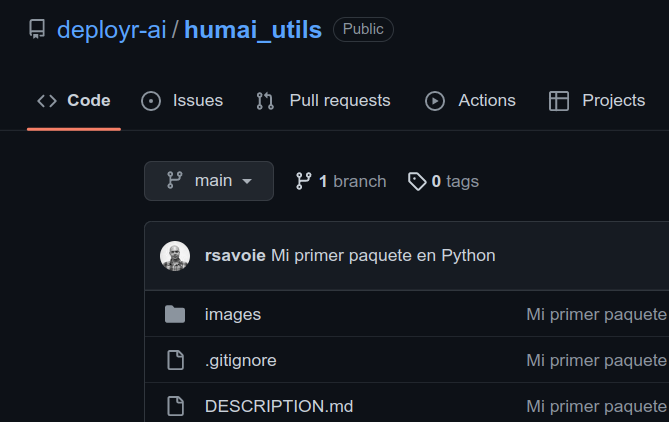
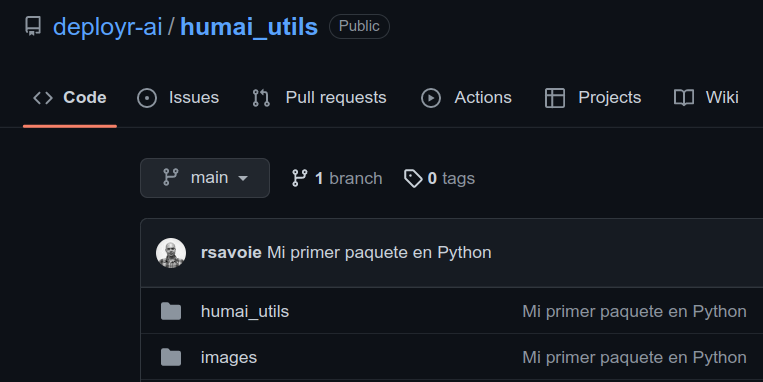
Agregados el __init__.py y nuevas capturas de pantalla

diff --git a/functions.py b/functions.py
@@ -1,0 +1,8 @@
+# No usamos este paquete pero igual lo importamos para generar una dependencia.
+import requests
+
+def saludar_comunidad():
+	print('Hola comunidad de Humai')
+
+def informar_clase():
+	print('La siguiente clase es el lunes')
